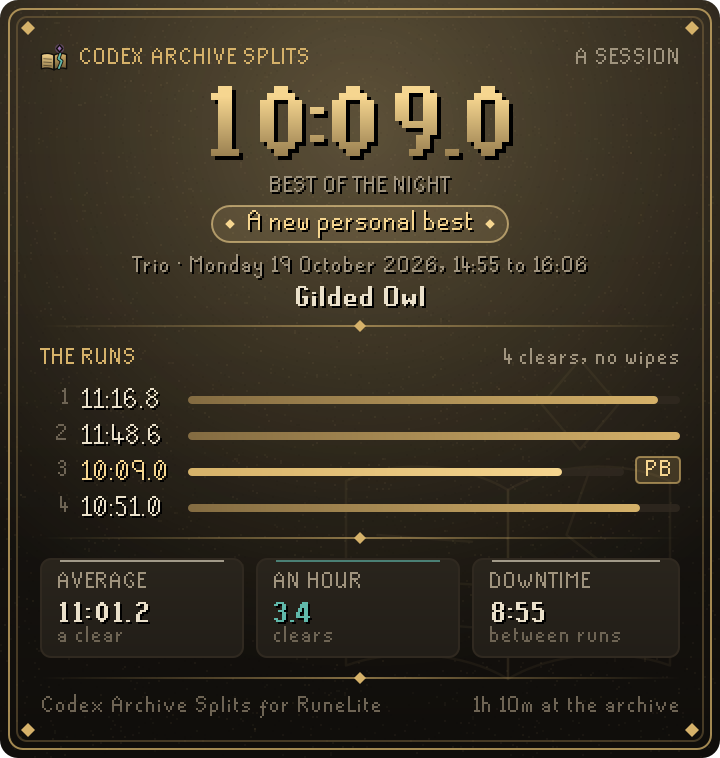
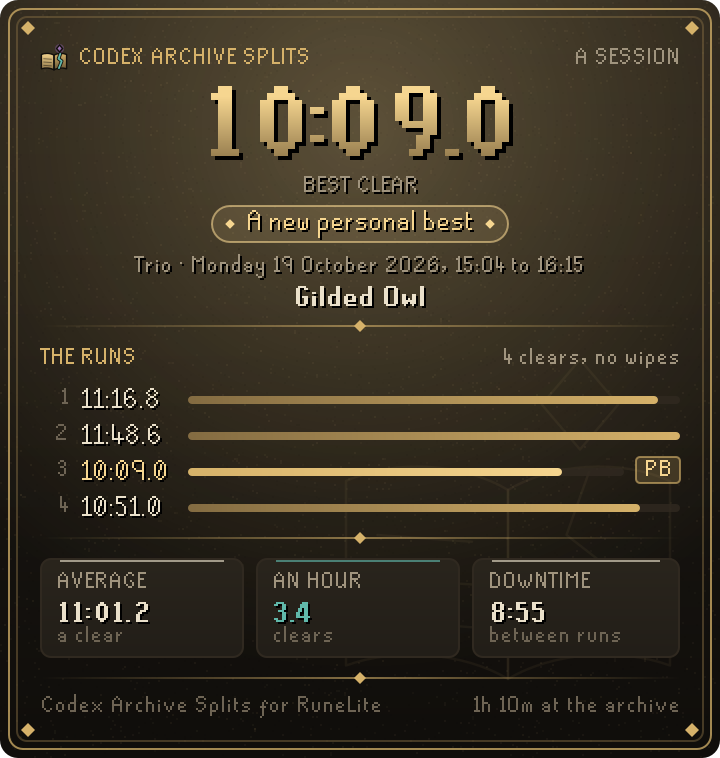
Call a sitting a session on its card, at any hour

Changed region(s): [[0.1833, 0.3338, 0.825, 0.3641], [0.3667, 0.2124, 0.6417, 0.2731]]

diff --git a/src/main/java/com/codex/archive/ui/SessionCard.java b/src/main/java/com/codex/archive/ui/SessionCard.java
@@ -21,9 +21,9 @@ import java.util.List;
 import java.util.Locale;
 
 /**
- * The session card: one sitting in the Fractured Archive on the run card's gilt page. The night's
- * best clear large, a ribbon for what the night brought (a purple, a new best, how close it came
- * to the best), then every run as a bar of its time against the night's slowest clear, the best
+ * The session card: one sitting in the Fractured Archive on the run card's gilt page. The sitting's
+ * best clear large, a ribbon for what the sitting brought (a purple, a new best, how close it came
+ * to the best), then every run as a bar of its time against the sitting's slowest clear, the best
  * lit, with its tags: a new best, a first clear, a purple, where a wipe stopped. Beneath, the
  * average clear, the pace and the time between runs.
  */
@@ -92,7 +92,7 @@ public final class SessionCard
 	}
 
 	/**
-	 * What the night brought, in a few words, never a figure the card shows elsewhere: its purples
+	 * What the sitting brought, in a few words, never a figure the card shows elsewhere: its purples
 	 * first, then its new bests, then how near its best clear came to the best before it.
 	 */
 	static String verdict(Sessions.Session s, List<Run> all)
@@ -146,7 +146,7 @@ public final class SessionCard
 		{
 			return "Within " + Format.span(delta) + " of your best";
 		}
-		return s.getWipes() == 0 ? "Every run cleared" : "A night in the archive";
+		return s.getWipes() == 0 ? "Every run cleared" : "A session in the archive";
 	}
 
 	/** The deepest boss the sitting's runs reached, by its short name, or null. */
@@ -229,7 +229,7 @@ public final class SessionCard
 		g.drawString(corner, x + w - small.stringWidth(corner), y + small.getAscent() - 1);
 		y += small.getHeight() + 10;
 
-		// The night's best clear, large; with none, the tries in ember.
+		// The sitting's best clear, large; with none, No clear in ember.
 		Run best = bestRun(s);
 		Font huge = Theme.title().deriveFont(Theme.title().getSize2D() * 3.5f);
 		g.setFont(huge);
@@ -248,7 +248,7 @@ public final class SessionCard
 		if (best != null)
 		{
 			g.setFont(Theme.small());
-			RunCard.centered(g, "BEST OF THE NIGHT", x, w, y + small.getAscent(), Theme.TEXT_MUTED);
+			RunCard.centered(g, "BEST CLEAR", x, w, y + small.getAscent(), Theme.TEXT_MUTED);
 			y += small.getHeight() + 4;
 		}
 		else
@@ -281,7 +281,7 @@ public final class SessionCard
 		RunCard.rule(g, x, y, w);
 		y += 10;
 
-		// Every run, a bar for its time against the slowest clear of the night.
+		// Every run, a bar for its time against the sitting's slowest clear.
 		g.setFont(Theme.small());
 		g.setColor(Theme.GOLD);
 		g.drawString("THE RUNS", x, y + small.getAscent());

diff --git a/README.md b/README.md
@@ -23,7 +23,7 @@ It is the seventh plugin in the **Codex** suite, after [Codex Navigator](https:/
 - **Where runs wipe.** The bosses your runs have wiped at, with how many tries there it took and the share that ended there, so you know which fight to practise. A wipe before either door of a row was seen is left out, since there is no telling which door it was.
 - **Crew and notes.** The raiders you were with are noted on every run, and the Records page lists who you raid with most and your best clear together. Right-click a run to note your role (tank, melee, ranged, magic, support, learner) or write a note on it, which shows on the run and in the export.
 - **Run card.** After a run, press *Save run card* or *Copy run card* on the Run page (or right-click any run on the Records page) for the run on a gilt page made to share: the time large, a ribbon for what it was ("New personal best, 31.2s off", "First trio clear", "Wiped at Xarth"), and the five bosses down a thread with each room's time, the run's time at the fall and the gap to your best there. Every room that was your quickest yet carries a gold mark. Under it: how many golds, deaths, which clear of that party size it was, the crew and the route. A run is always measured against the runs before it, so an old personal best's card still says so. Turn off *Name on cards* to share one without your name or your party's.
-- **Session card.** Under *This session* on the Run page, *Save session card* or *Copy* gives the whole sitting on the same gilt page: the night's best clear large, a ribbon for what it brought (a purple, a new best, a first clear, or how close it came to your best), and every run as a bar of its time with its tags, the best lit and each wipe saying where it stopped. Under it: the average clear, clears an hour and the time between runs. *Name on cards* leaves your name off this one too.
+- **Session card.** Under *This session* on the Run page, *Save session card* or *Copy* gives the whole sitting on the same gilt page: the sitting's best clear large, a ribbon for what it brought (a purple, a new best, a first clear, or how close it came to your best), and every run as a bar of its time with its tags, the best lit and each wipe saying where it stopped. Under it: the average clear, clears an hour and the time between runs. *Name on cards* leaves your name off this one too.
 - **Share and export.** Right-click a run to copy its splits as text for a chat, or save your whole history as a spreadsheet (CSV) with every room and fight in seconds, through RuneLite's own save dialog.
 - **Spoils.** Your dry streak and the longest you've gone, your purples and how often they come, how much of the log you have, a tablet for each unique that lights up once you've got it, and a log of every purple with the KC it came on and how many clears it took.
 - **Pack check.** In the lobby, bars for food, brews, restores and boosts against the amounts you set in the plugin's settings, plus a plaque in the game view naming anything you're short of. Set a supply to 0 to leave it out of the check, or all of them to turn the check off.
